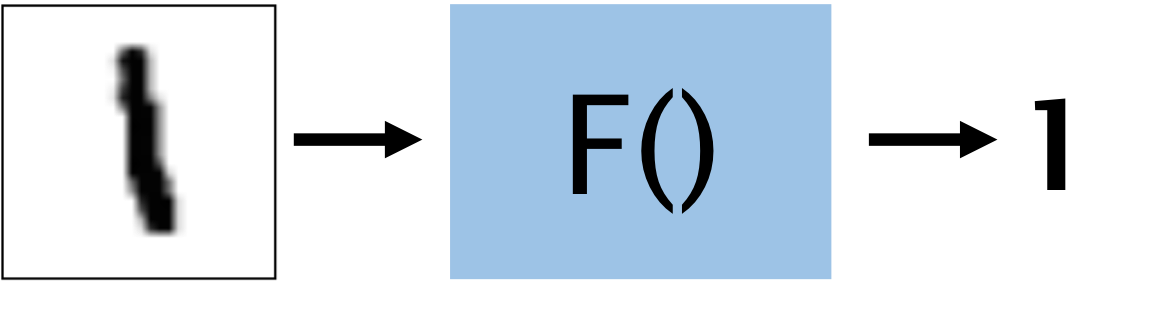
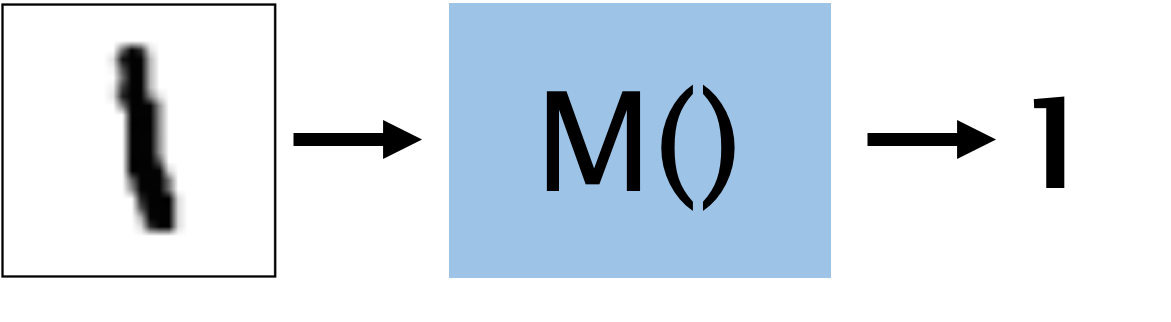
update nn post

diff --git a/_posts/2018-07-09-tweet-like-a-trump.md b/_posts/2018-07-09-tweet-like-a-trump.md
@@ -15,11 +15,11 @@ Neural nets are a bit like *magic*. Let's consider the following example: you ha
 
 {% include figure.html file="/imgs/nn-1.png" description="Figure 1: A magic digit-classifier function" %}
 
-Now, we split this function into more and more functions. It is still magic, but a composite of many magic functions instead of just one.
+Next, we split this function into more and more functions. It is still magic, but a composite of many magic functions instead of just one.
 
 
 {% include figure.html file="/imgs/nn-2.png" description="Figure 2: A composite, magic digit-classifier function" %}
 
-
+Now, we make a few changes. Our functions become real. They become numerical (i.e: they take in some numbers and output one -and only one- number). We also start denoting them using circles.
 
 {% include mailchimp.html source="nn1" %}
